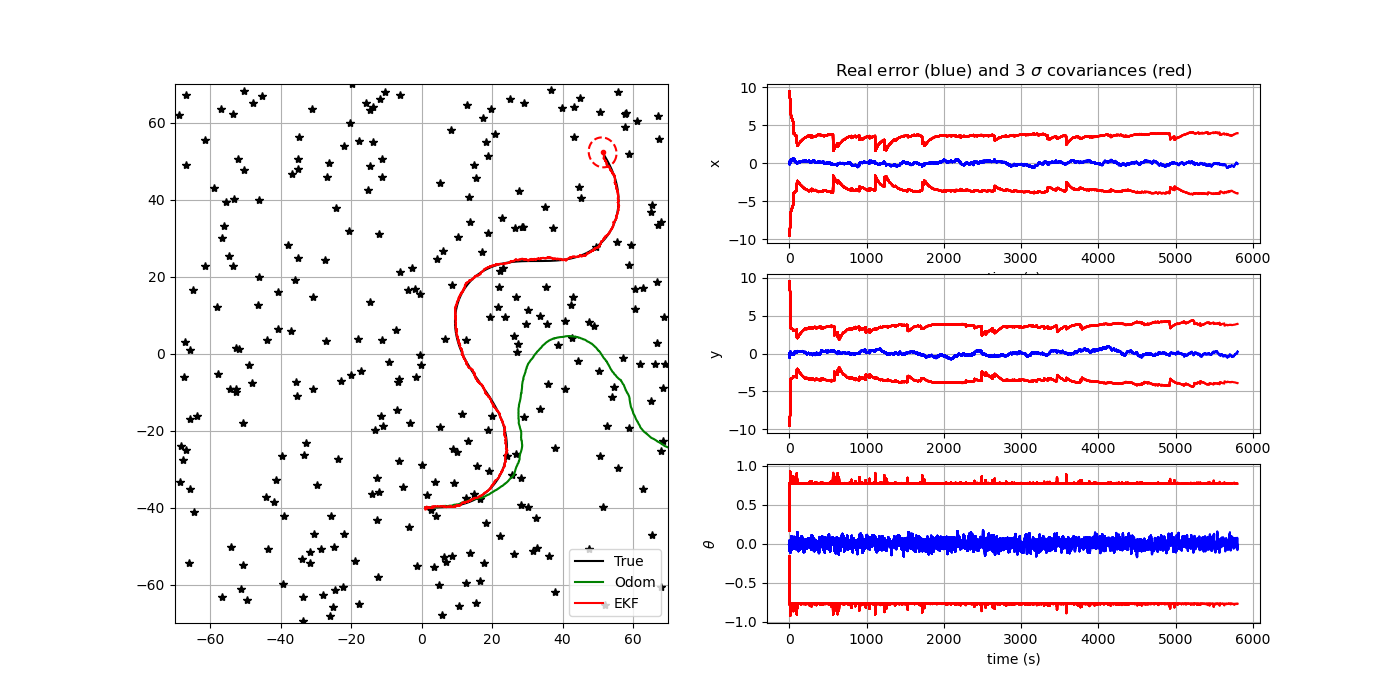
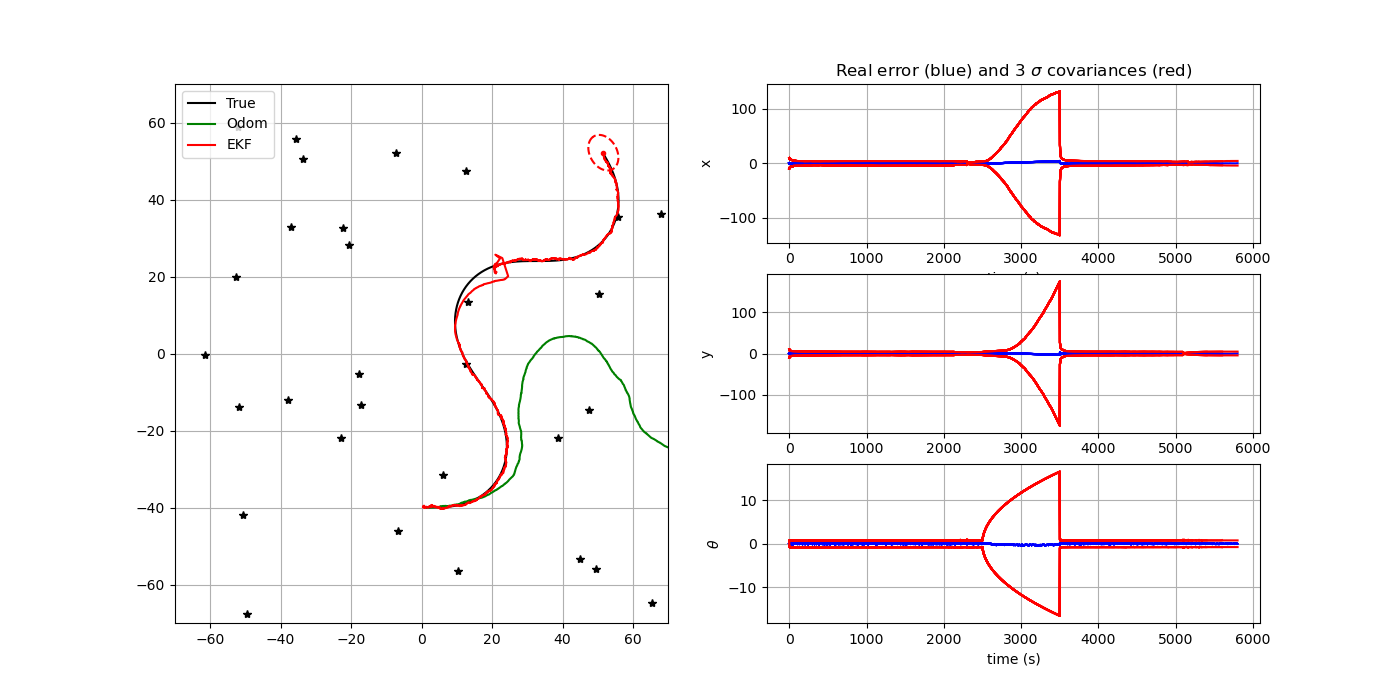
Avec trou de mesures

diff --git a/TP2/EKFLocalization.py b/TP2/EKFLocalization.py
@@ -63,13 +63,13 @@ class Simulation:
 
 
     # generate a noisy observation of a random feature
-    def get_observation(self, k):
+    def get_observation(self, k, notValidCondition):
         # Ensuring random repetability for given k
         np.random.seed(seed*3 + k)
 
         # Model
         if k*self.dt_pred % self.dt_meas == 0:
-            notValidCondition = False # False: measurement valid / True: measurement not valid
+            # notValidCondition = False: measurement valid / True: measurement not valid
             if notValidCondition:
                 z = None
                 iFeature = None
@@ -304,7 +304,11 @@ for k in range(1, simulation.nSteps):
     PPred = jacF @ PEst @ jacF.T + jacG @ QEst @ jacG.T
 
     # Get random landmark observation
-    [z, iFeature] = simulation.get_observation(k)
+    if k >= 2500 and k <= 3500:
+        notValidCondition = True
+    else:
+        notValidCondition = False
+    [z, iFeature] = simulation.get_observation(k, notValidCondition)
 
     if z is not None:
         # Predict observation
